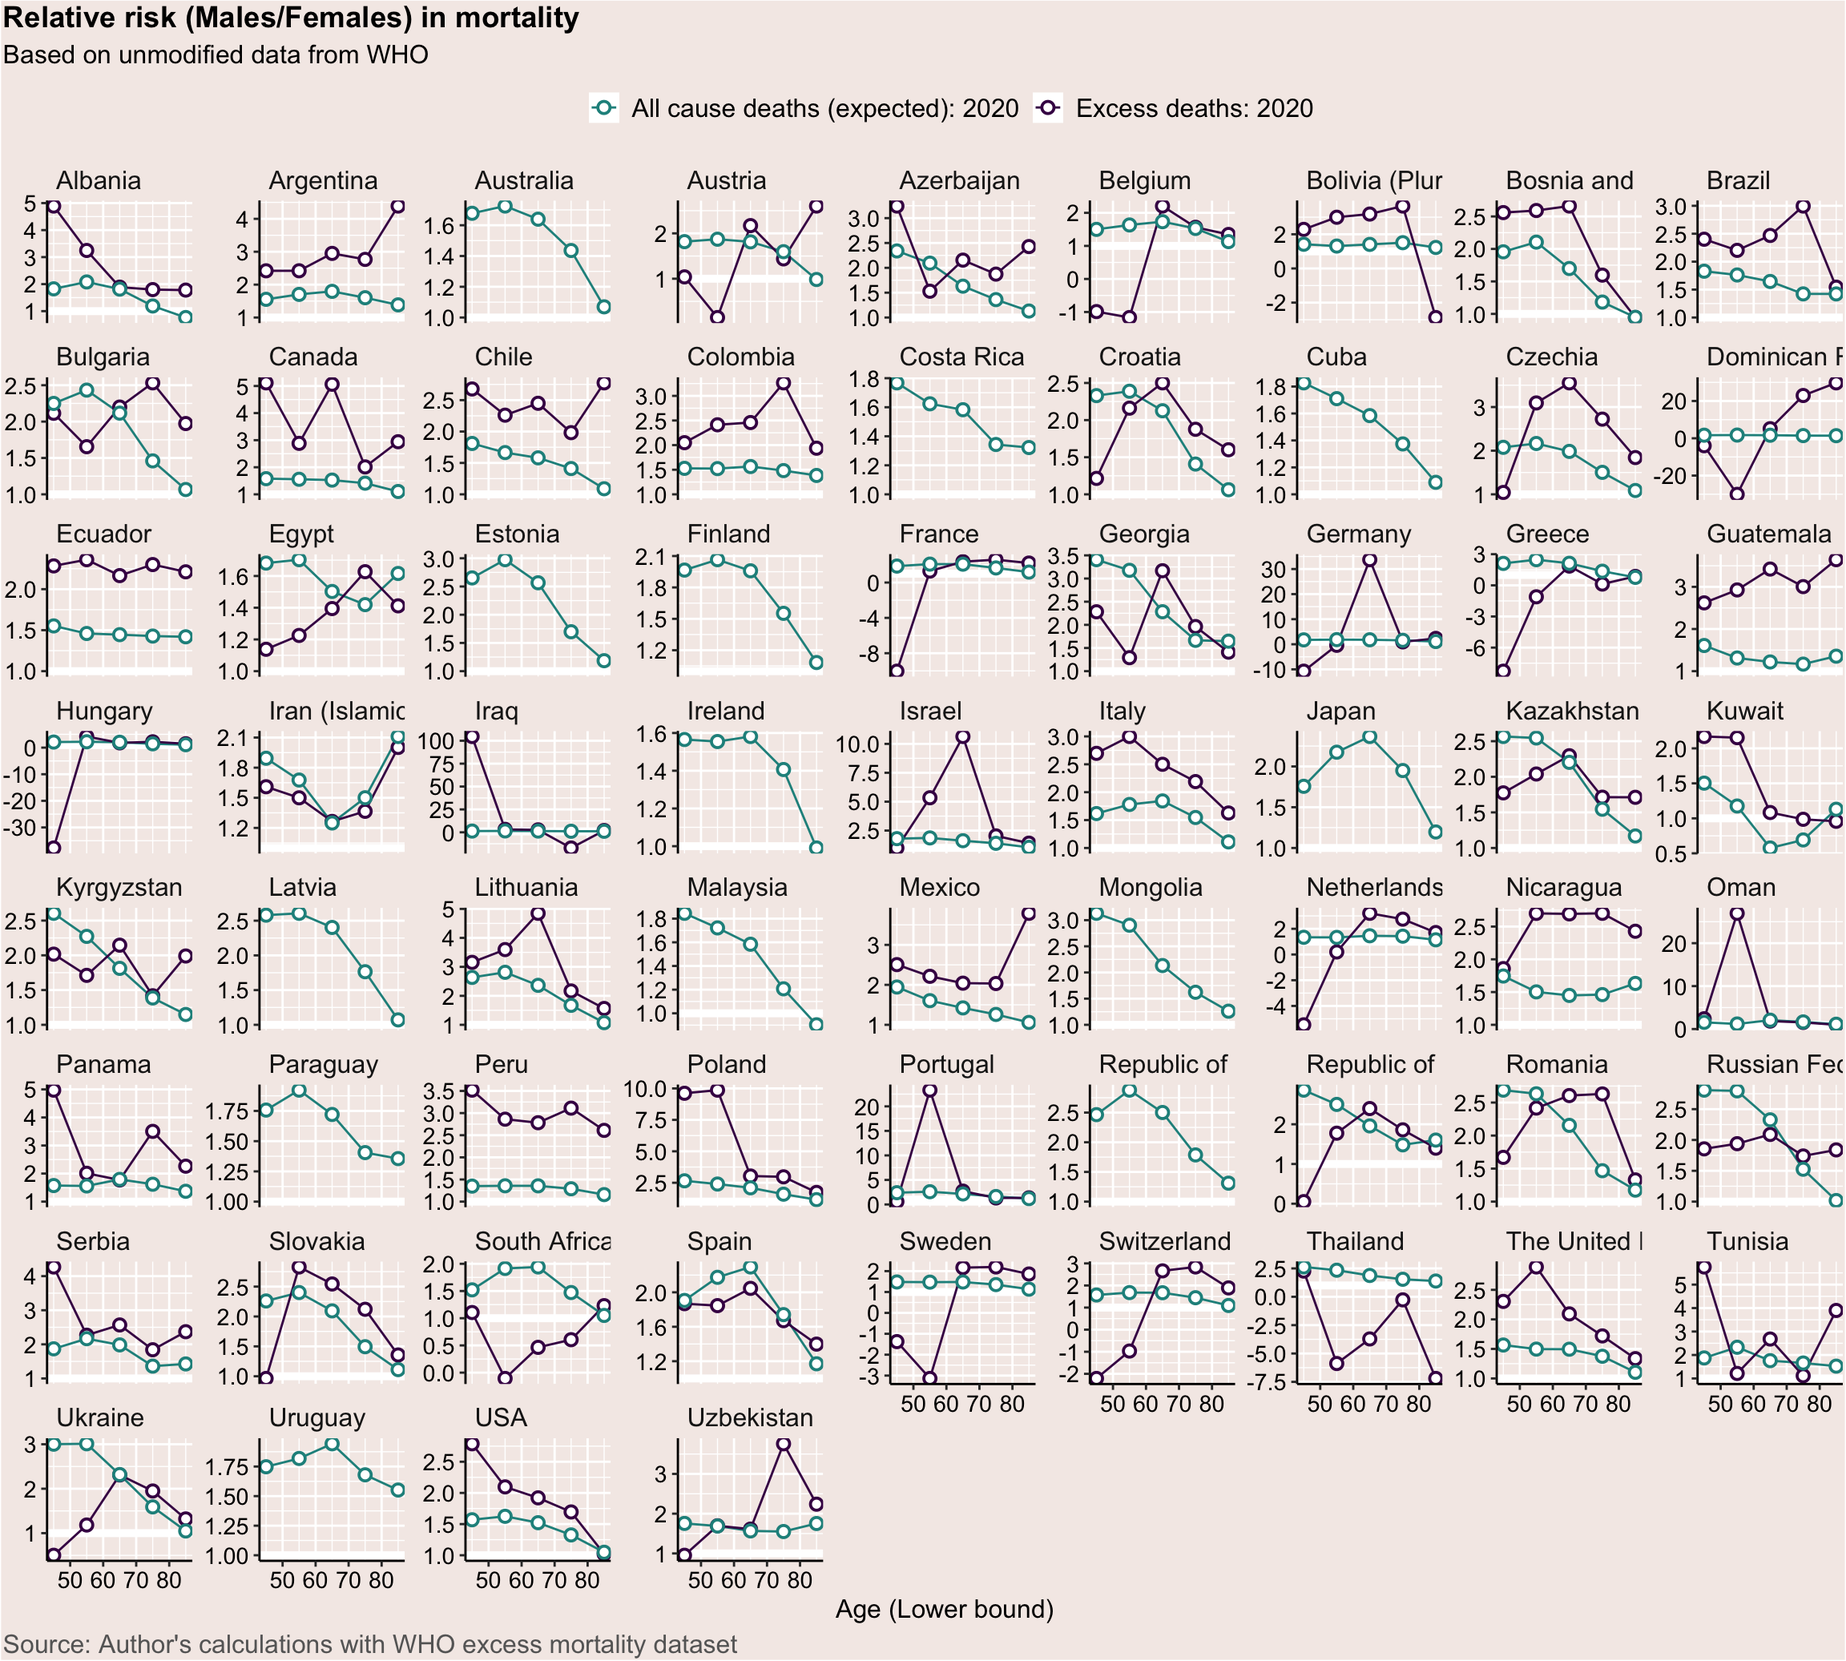
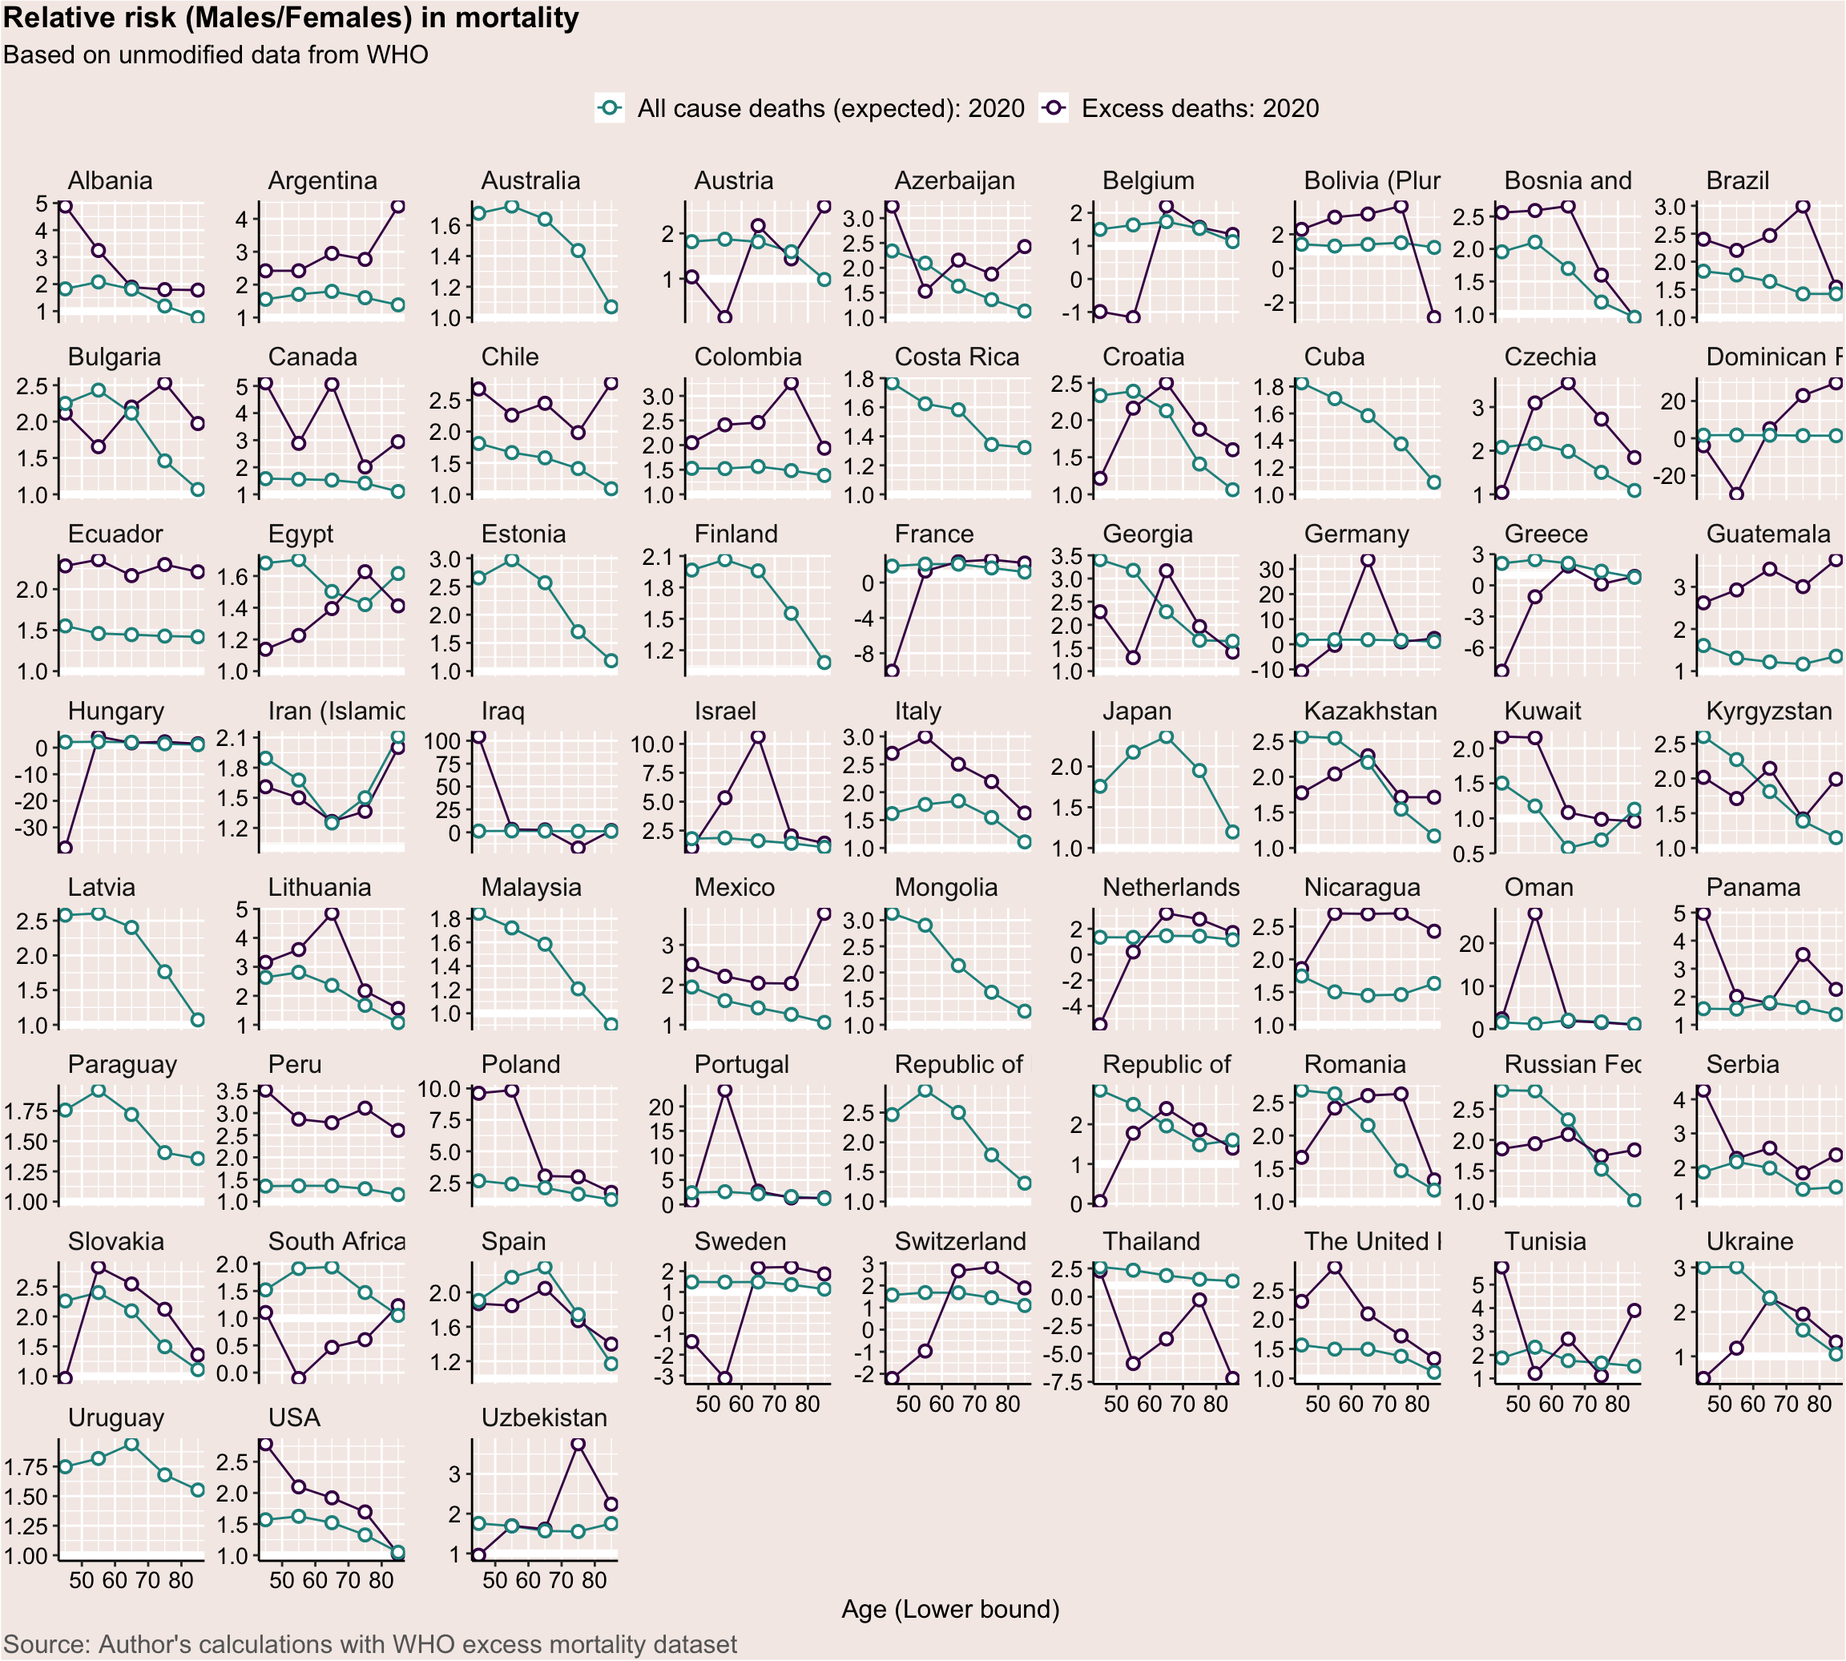
Updating

diff --git a/covidmort-who-sexage-results.html b/covidmort-who-sexage-results.html
@@ -95,13 +95,13 @@ ul.task-list li input[type="checkbox"] {
 </section>
 <section id="data" class="level2">
 <h2 class="anchored" data-anchor-id="data">Data</h2>
-<p>This analyses in this paper use global excess deaths associated with COVID-19 (modeled estimates) produced by the <a href="https://www.who.int/data/sets/global-excess-deaths-associated-with-covid-19-modelled-estimates">Technical Advisory Group (TAG) on COVID-19 mortality assessment</a>. Estimates of expected all-cause deaths (baseline), actual cause deaths and excess deaths are provided by country and 7 age groups:“0-24” , “25-34” , 35-44”, “45-54”, “55-64”, “65-74”, “75-84”, “&gt;85”. However, only age groups at or above 45 years of age are considered.</p>
+<p>This analyses in this paper use global excess deaths associated with COVID-19 (modeled estimates) produced by the <a href="https://www.who.int/data/sets/global-excess-deaths-associated-with-covid-19-modelled-estimates">Technical Advisory Group (TAG) on COVID-19 mortality assessment</a>. Estimates of expected all-cause deaths (baseline), actual cause deaths and excess deaths are provided by country and 7 age groups:“0-24” , “25-34” , 35-44”, “45-54”, “55-64”, “65-74”, “75-84”, “&gt;85”. However, only age groups at or above 45 years of age are considered in this analysis.</p>
 <p>Out of 195 countries in the WHO database, 75 countries have excess death estimates based on reported all-cause death records disaggregated by gender for 2020 and of these, 61 also use reported deaths by gender and age for 2021.</p>
-<p>Country inclusion criteria for this analysis are as follows:</p>
+<p>Two inclusion criteria for this analysis are applied:</p>
 <ul>
-<li><p>Have reported all-cause data disaggregated by age and sex in 2020 or 2021</p></li>
-<li><p>Have total excess deaths (for both sexes) of at least 2000 deaths in 2020 or 2021</p></li>
-<li><p>The following 67 countries are included in this analysis: Albania, Argentina, Australia, Austria, Azerbaijan, Belgium, Bulgaria, Bosnia and Herzegovina, Bolivia (Plurinational State of), Brazil, Canada, Switzerland, Chile, Colombia, Costa Rica, Cuba, Czechia, Germany, Dominican Republic, Ecuador, Egypt, Spain, Estonia, Finland, France, The United Kingdom, Georgia, Greece, Guatemala, Croatia, Hungary, Iran (Islamic Republic of), Iraq, Israel, Italy, Japan, Kazakhstan, Kyrgyzstan, Republic of Korea, Kuwait, Lithuania, Latvia, Republic of Moldova, Mexico, Mongolia, Nicaragua, Netherlands, Oman, Panama, Peru, Poland, Portugal, Paraguay, Romania, Russian Federation, Serbia, Slovakia, Sweden, Thailand, Tunisia, Ukraine, Uruguay, USA, Uzbekistan, South Africa, Ireland, Malaysia</p></li>
+<li><p>Countries with all-cause data reported by both age and sex in 2020 or 2021</p></li>
+<li><p>Countries with total excess deaths (both sexes) of at least 2000 in 2020 or 2021</p></li>
+<li><p>The following 66 countries are included in this analysis: Albania, Argentina, Australia, Austria, Azerbaijan, Belgium, Bulgaria, Bosnia and Herzegovina, Bolivia (Plurinational State of), Brazil, Canada, Switzerland, Chile, Colombia, Costa Rica, Cuba, Czechia, Germany, Dominican Republic, Ecuador, Egypt, Spain, Estonia, Finland, France, The United Kingdom, Georgia, Greece, Guatemala, Croatia, Hungary, Iran (Islamic Republic of), Iraq, Israel, Italy, Japan, Kazakhstan, Kyrgyzstan, Republic of Korea, Kuwait, Lithuania, Latvia, Republic of Moldova, Mexico, Mongolia, Nicaragua, Netherlands, Oman, Panama, Peru, Poland, Portugal, Paraguay, Romania, Russian Federation, Serbia, Slovakia, Sweden, Thailand, Tunisia, Ukraine, Uruguay, USA, Uzbekistan, South Africa, Malaysia</p></li>
 <li><p>54 countries meet the inclusion criteria in 2020</p></li>
 <li><p>57 countries meet the inclusion criteria in 2021</p></li>
 </ul>
@@ -151,9 +151,9 @@ ul.task-list li input[type="checkbox"] {
 </tr>
 <tr class="odd">
 <td style="text-align: right;">5</td>
-<td style="text-align: right;">14</td>
+<td style="text-align: right;">13</td>
 <td style="text-align: left;">49,140 - 71,070</td>
-<td style="text-align: left;">Australia, Austria, Belgium, Canada, Switzerland, Germany, Finland, France, The United Kingdom, Kuwait, Netherlands, Sweden, USA, Ireland</td>
+<td style="text-align: left;">Australia, Austria, Belgium, Canada, Switzerland, Germany, Finland, France, The United Kingdom, Kuwait, Netherlands, Sweden, USA</td>
 </tr>
 </tbody>
 </table>
@@ -224,7 +224,7 @@ ul.task-list li input[type="checkbox"] {
 <td style="text-align: left;">2.38 (1.9-2.89)</td>
 <td style="text-align: left;">2.94 (2.06-3.63)</td>
 <td style="text-align: left;">3.23 (2.47-4.13)</td>
-<td style="text-align: left;">2.26 (1.71-3.02)</td>
+<td style="text-align: left;">2.26 (1.71-3.05)</td>
 </tr>
 <tr class="even">
 <td style="text-align: left;">All cause deaths (expected): 2020</td>
@@ -233,7 +233,7 @@ ul.task-list li input[type="checkbox"] {
 <td style="text-align: left;">1.99 (1.7-2.31)</td>
 <td style="text-align: left;">2.33 (1.81-2.69)</td>
 <td style="text-align: left;">2.5 (2.04-3)</td>
-<td style="text-align: left;">1.88 (1.53-2.31)</td>
+<td style="text-align: left;">1.88 (1.53-2.33)</td>
 </tr>
 <tr class="odd">
 <td style="text-align: left;">All cause deaths (expected): 2020</td>
@@ -242,7 +242,7 @@ ul.task-list li input[type="checkbox"] {
 <td style="text-align: left;">1.67 (1.51-1.88)</td>
 <td style="text-align: left;">1.84 (1.61-2)</td>
 <td style="text-align: left;">1.93 (1.67-2.19)</td>
-<td style="text-align: left;">1.56 (1.37-1.79)</td>
+<td style="text-align: left;">1.57 (1.37-1.8)</td>
 </tr>
 <tr class="even">
 <td style="text-align: left;">All cause deaths (expected): 2020</td>
@@ -251,7 +251,7 @@ ul.task-list li input[type="checkbox"] {
 <td style="text-align: left;">1.46 (1.28-1.61)</td>
 <td style="text-align: left;">1.46 (1.34-1.57)</td>
 <td style="text-align: left;">1.49 (1.36-1.63)</td>
-<td style="text-align: left;">1.3 (1.19-1.42)</td>
+<td style="text-align: left;">1.31 (1.19-1.42)</td>
 </tr>
 <tr class="odd">
 <td style="text-align: left;">All cause deaths (expected): 2020</td>
@@ -260,7 +260,7 @@ ul.task-list li input[type="checkbox"] {
 <td style="text-align: left;">1.26 (1.06-1.42)</td>
 <td style="text-align: left;">1.14 (1.04-1.31)</td>
 <td style="text-align: left;">1.15 (1.05-1.26)</td>
-<td style="text-align: left;">1.07 (0.95-1.18)</td>
+<td style="text-align: left;">1.07 (0.95-1.19)</td>
 </tr>
 <tr class="even">
 <td style="text-align: left;">Excess deaths: 2020</td>
@@ -1230,20 +1230,6 @@ ul.task-list li input[type="checkbox"] {
 <p><img src="covidmort-who-sexage-results_files/figure-html/unnamed-chunk-8-65.png" class="img-fluid" width="960"></p>
 </div>
 </section>
-<section id="ireland" class="level4">
-<h4 class="anchored" data-anchor-id="ireland">Ireland</h4>
-<ul>
-<li>Total population: 4,939,931</li>
-<li>Total official COVID deaths in 2020 (Our World in Data): 2,265</li>
-<li>Total official COVID deaths in 2021 (Our World in Data): 3,826</li>
-<li>Total excess deaths in 2020 (WHO):<br>
-</li>
-<li>Total excess deaths in 2021 (WHO):</li>
-</ul>
-<div class="cell-output-display">
-<p><img src="covidmort-who-sexage-results_files/figure-html/unnamed-chunk-8-66.png" class="img-fluid" width="960"></p>
-</div>
-</section>
 <section id="malaysia" class="level4">
 <h4 class="anchored" data-anchor-id="malaysia">Malaysia</h4>
 <ul>
@@ -1255,7 +1241,7 @@ ul.task-list li input[type="checkbox"] {
 <li>Total excess deaths in 2021 (WHO):</li>
 </ul>
 <div class="cell-output-display">
-<p><img src="covidmort-who-sexage-results_files/figure-html/unnamed-chunk-8-67.png" class="img-fluid" width="960"></p>
+<p><img src="covidmort-who-sexage-results_files/figure-html/unnamed-chunk-8-66.png" class="img-fluid" width="960"></p>
 </div>
 </section>
 </div>

diff --git a/covidmort-who-sexage-results.md b/covidmort-who-sexage-results.md
@@ -18,16 +18,16 @@ This paper seeks to understand how mortality risks from COVID for men and women 
 
 ## Data
 
-This analyses in this paper use global excess deaths associated with COVID-19 (modeled estimates) produced by the [Technical Advisory Group (TAG) on COVID-19 mortality assessment](https://www.who.int/data/sets/global-excess-deaths-associated-with-covid-19-modelled-estimates). Estimates of expected all-cause deaths (baseline), actual cause deaths and excess deaths are provided by country and 7 age groups:"0-24" , "25-34" , 35-44", "45-54", "55-64", "65-74", "75-84", ">85". However, only age groups at or above 45 years of age are considered. 
+This analyses in this paper use global excess deaths associated with COVID-19 (modeled estimates) produced by the [Technical Advisory Group (TAG) on COVID-19 mortality assessment](https://www.who.int/data/sets/global-excess-deaths-associated-with-covid-19-modelled-estimates). Estimates of expected all-cause deaths (baseline), actual cause deaths and excess deaths are provided by country and 7 age groups:"0-24" , "25-34" , 35-44", "45-54", "55-64", "65-74", "75-84", ">85". However, only age groups at or above 45 years of age are considered in this analysis. 
 
 Out of 195 countries in the WHO database, 75 countries have excess death estimates based on reported all-cause death records disaggregated by gender for 2020 and of these, 61 also use reported deaths by gender and age for 2021.
 
-Country inclusion criteria for this analysis are as follows: 
+Two inclusion criteria for this analysis are applied: 
 
-- Have reported all-cause data disaggregated by age and sex in 2020 or 2021
-- Have total excess deaths (for both sexes) of at least 2000 deaths in 2020 or 2021
+- Countries with all-cause data reported by both age and sex in 2020 or 2021
+- Countries with total excess deaths (both sexes) of at least 2000 in 2020 or 2021
 
-- The following 67 countries are included in this analysis: Albania, Argentina, Australia, Austria, Azerbaijan, Belgium, Bulgaria, Bosnia and Herzegovina, Bolivia (Plurinational State of), Brazil, Canada, Switzerland, Chile, Colombia, Costa Rica, Cuba, Czechia, Germany, Dominican Republic, Ecuador, Egypt, Spain, Estonia, Finland, France, The United Kingdom, Georgia, Greece, Guatemala, Croatia, Hungary, Iran (Islamic Republic of), Iraq, Israel, Italy, Japan, Kazakhstan, Kyrgyzstan, Republic of Korea, Kuwait, Lithuania, Latvia, Republic of Moldova, Mexico, Mongolia, Nicaragua, Netherlands, Oman, Panama, Peru, Poland, Portugal, Paraguay, Romania, Russian Federation, Serbia, Slovakia, Sweden, Thailand, Tunisia, Ukraine, Uruguay, USA, Uzbekistan, South Africa, Ireland, Malaysia
+- The following 66 countries are included in this analysis: Albania, Argentina, Australia, Austria, Azerbaijan, Belgium, Bulgaria, Bosnia and Herzegovina, Bolivia (Plurinational State of), Brazil, Canada, Switzerland, Chile, Colombia, Costa Rica, Cuba, Czechia, Germany, Dominican Republic, Ecuador, Egypt, Spain, Estonia, Finland, France, The United Kingdom, Georgia, Greece, Guatemala, Croatia, Hungary, Iran (Islamic Republic of), Iraq, Israel, Italy, Japan, Kazakhstan, Kyrgyzstan, Republic of Korea, Kuwait, Lithuania, Latvia, Republic of Moldova, Mexico, Mongolia, Nicaragua, Netherlands, Oman, Panama, Peru, Poland, Portugal, Paraguay, Romania, Russian Federation, Serbia, Slovakia, Sweden, Thailand, Tunisia, Ukraine, Uruguay, USA, Uzbekistan, South Africa, Malaysia
 - 54 countries meet the inclusion criteria in 2020
 - 57 countries meet the inclusion criteria in 2021
 
@@ -41,7 +41,7 @@ Country inclusion criteria for this analysis are as follows:
 |               2|               13|14,080 - 19,630                           |Albania, Azerbaijan, Bosnia and Herzegovina, Brazil, Colombia, Dominican Republic, Georgia, Iran (Islamic Republic of), Republic of Moldova, Mexico, Serbia, Thailand, South Africa |
 |               3|               13|21,260 - 32,600                           |Argentina, Bulgaria, Chile, Costa Rica, Greece, Croatia, Kazakhstan, Latvia, Panama, Romania, Russian Federation, Uruguay, Malaysia                                                 |
 |               4|               13|32,740 - 46,190                           |Czechia, Spain, Estonia, Hungary, Israel, Italy, Japan, Republic of Korea, Lithuania, Oman, Poland, Portugal, Slovakia                                                              |
-|               5|               14|49,140 - 71,070                           |Australia, Austria, Belgium, Canada, Switzerland, Germany, Finland, France, The United Kingdom, Kuwait, Netherlands, Sweden, USA, Ireland                                           |
+|               5|               13|49,140 - 71,070                           |Australia, Austria, Belgium, Canada, Switzerland, Germany, Finland, France, The United Kingdom, Kuwait, Netherlands, Sweden, USA                                                    |
 :::
 :::
 
@@ -88,11 +88,11 @@ Table: Median and interquartile range of predictions are shown
 
 |group                             | Age_Lower|Quintile: 1      |Quintile: 2      |Quintile: 3      |Quintile: 4      |Quintile: 5      |
 |:---------------------------------|---------:|:----------------|:----------------|:----------------|:----------------|:----------------|
-|All cause deaths (expected): 2020 |        45|1.89 (1.54-2.63) |2.38 (1.9-2.89)  |2.94 (2.06-3.63) |3.23 (2.47-4.13) |2.26 (1.71-3.02) |
-|All cause deaths (expected): 2020 |        55|1.73 (1.47-2.15) |1.99 (1.7-2.31)  |2.33 (1.81-2.69) |2.5 (2.04-3)     |1.88 (1.53-2.31) |
-|All cause deaths (expected): 2020 |        65|1.59 (1.39-1.79) |1.67 (1.51-1.88) |1.84 (1.61-2)    |1.93 (1.67-2.19) |1.56 (1.37-1.79) |
-|All cause deaths (expected): 2020 |        75|1.44 (1.28-1.6)  |1.46 (1.28-1.61) |1.46 (1.34-1.57) |1.49 (1.36-1.63) |1.3 (1.19-1.42)  |
-|All cause deaths (expected): 2020 |        85|1.25 (1.12-1.45) |1.26 (1.06-1.42) |1.14 (1.04-1.31) |1.15 (1.05-1.26) |1.07 (0.95-1.18) |
+|All cause deaths (expected): 2020 |        45|1.89 (1.54-2.63) |2.38 (1.9-2.89)  |2.94 (2.06-3.63) |3.23 (2.47-4.13) |2.26 (1.71-3.05) |
+|All cause deaths (expected): 2020 |        55|1.73 (1.47-2.15) |1.99 (1.7-2.31)  |2.33 (1.81-2.69) |2.5 (2.04-3)     |1.88 (1.53-2.33) |
+|All cause deaths (expected): 2020 |        65|1.59 (1.39-1.79) |1.67 (1.51-1.88) |1.84 (1.61-2)    |1.93 (1.67-2.19) |1.57 (1.37-1.8)  |
+|All cause deaths (expected): 2020 |        75|1.44 (1.28-1.6)  |1.46 (1.28-1.61) |1.46 (1.34-1.57) |1.49 (1.36-1.63) |1.31 (1.19-1.42) |
+|All cause deaths (expected): 2020 |        85|1.25 (1.12-1.45) |1.26 (1.06-1.42) |1.14 (1.04-1.31) |1.15 (1.05-1.26) |1.07 (0.95-1.19) |
 |Excess deaths: 2020               |        45|2.13 (1.35-3.08) |2.97 (1.82-4.68) |2.28 (1.86-3.1)  |4.86 (3-7.8)     |3.64 (2.29-6.34) |
 |Excess deaths: 2020               |        55|2.18 (1.47-3)    |2.48 (1.73-3.35) |2.23 (1.92-2.79) |3.7 (2.57-5.11)  |2.89 (1.95-4.43) |
 |Excess deaths: 2020               |        65|2.18 (1.59-3)    |2.19 (1.76-2.67) |2.16 (1.91-2.61) |2.79 (2.15-3.43) |2.33 (1.72-3.18) |
@@ -907,18 +907,6 @@ The following set of figures display observed and predicted values of mortality 
 :::
 
 
-#### Ireland 
-- Total population: 4,939,931 
-- Total official COVID deaths in 2020 (Our World in Data): 2,265 
-- Total official COVID deaths in 2021  (Our World in Data): 3,826 
-- Total excess deaths in 2020  (WHO):  
-- Total excess deaths in 2021  (WHO):  
-
-::: {.cell-output-display}
-![](covidmort-who-sexage-results_files/figure-html/unnamed-chunk-8-66.png){width=960}
-:::
-
-
 #### Malaysia 
 - Total population: 33,190,884 
 - Total official COVID deaths in 2020 (Our World in Data): 463 
@@ -927,7 +915,7 @@ The following set of figures display observed and predicted values of mortality 
 - Total excess deaths in 2021  (WHO):  
 
 ::: {.cell-output-display}
-![](covidmort-who-sexage-results_files/figure-html/unnamed-chunk-8-67.png){width=960}
+![](covidmort-who-sexage-results_files/figure-html/unnamed-chunk-8-66.png){width=960}
 :::
 :::
 
